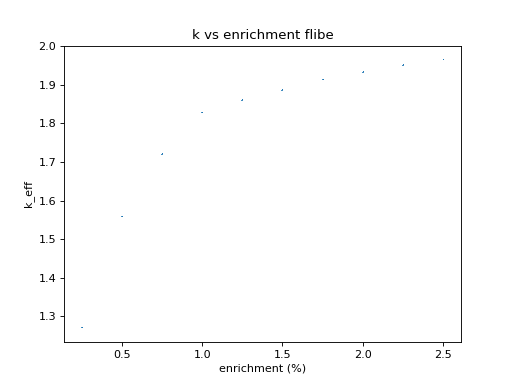
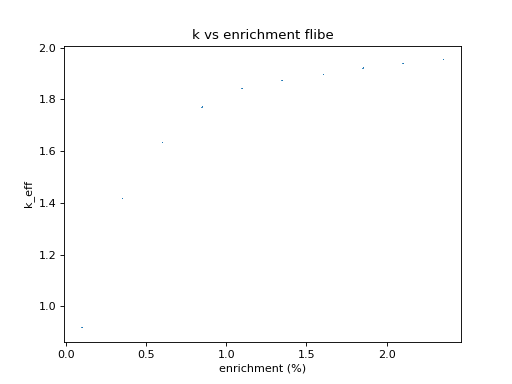
updated graphs

diff --git a/Crit/defaultcrit/default_crit.py b/Crit/defaultcrit/default_crit.py
@@ -34,11 +34,11 @@ for i in range(10):
 
 fit = np.polyfit(enr_list, k_list, 2)
 fig1, ax1 = plt.subplots()
-ax1.errorbar(enr_list, k_list, yerr=kerr_list,ls = '', marker=',', label = 'Serpent data')
+ax1.errorbar(enr_list, k_list, yerr=kerr_list, marker=',', label = 'Serpent data')
 ax1.set(xlabel='enrichment (%)', ylabel='k_eff', title='k vs enrichment default fuel')
 fig1.savefig('default.png', transparent=False, dpi=80)
 
 crit_enr_1 = (-1*fit[1]+np.sqrt((fit[1]**2)-(4*fit[0]*(fit[2]-1.))/(2.*fit[0])))
-crit_enr_2 = (-1*fit[1]+np.sqrt((fit[1]**2)-(4*fit[0]*(fit[2]-1.))/(2.*fit[0])))
+crit_enr_2 = (-1*fit[1]-np.sqrt((fit[1]**2)-(4*fit[0]*(fit[2]-1.))/(2.*fit[0])))
 crit_enr = [crit_enr_1, crit_enr_2]
 print('The Critcal Enrichment is ', crit_enr)

diff --git a/Crit/flibecrit/flibecrit.py b/Crit/flibecrit/flibecrit.py
@@ -10,7 +10,7 @@ import numpy as np
 enr_list = []
 k_list = []
 kerr_list = []
-enr = 0.25
+enr = 0.1
 for i in range(10):
     try:
         os.mkdir('dir{}'.format(i))
